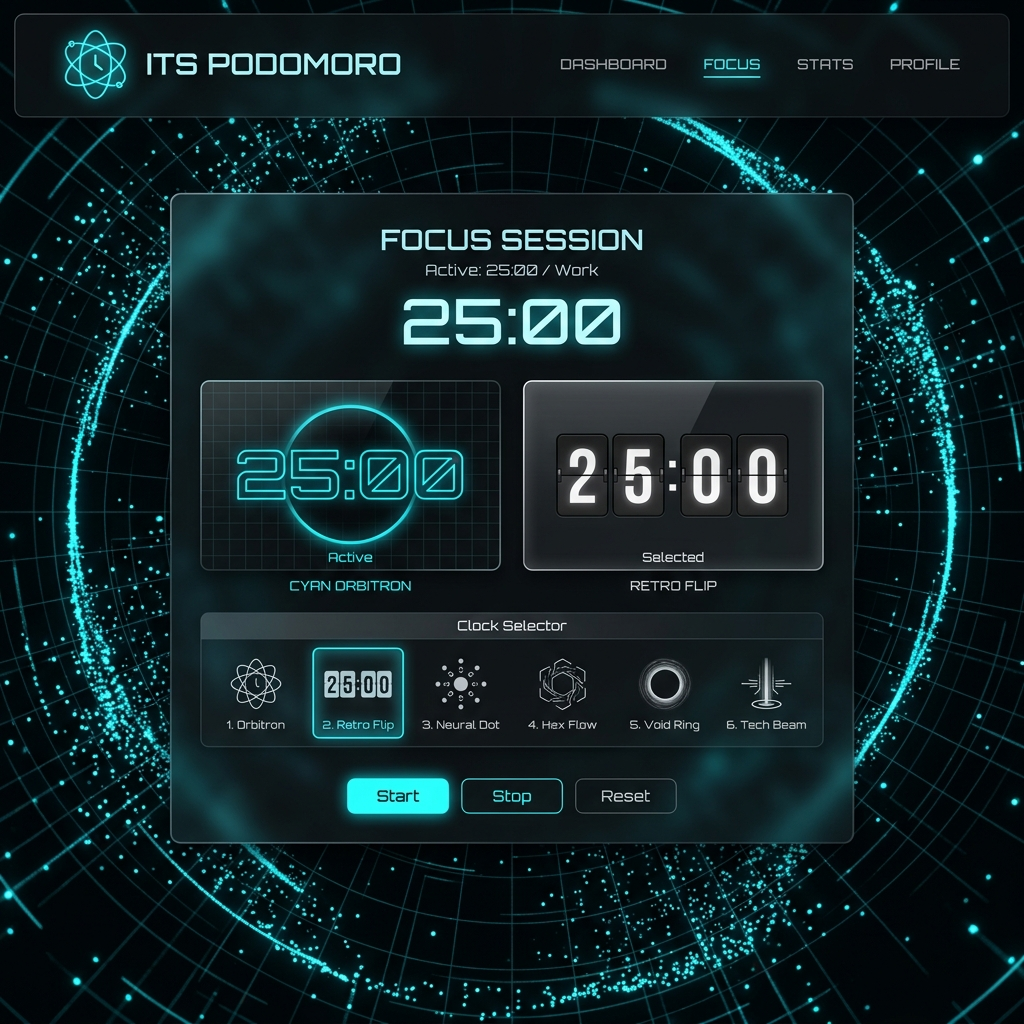
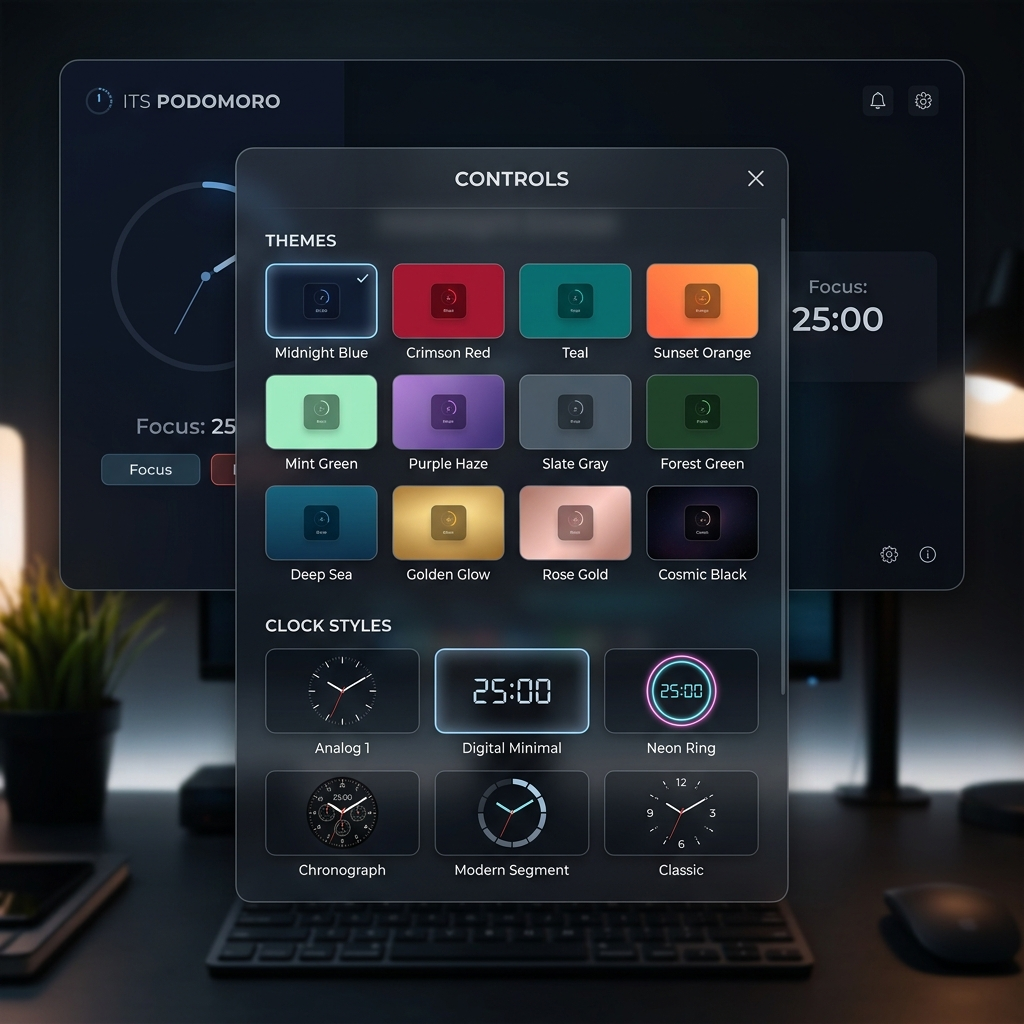
fix: compact no-scroll modal drawer for controls setting window

diff --git a/style.css b/style.css
@@ -1,5 +1,5 @@
 /* ==========================================================================
-   Its Podomoro - Ultra Clean CSS Design System (12 Themes & 6 Clock Styles)
+   Its Podomoro - Ultra Clean CSS Design System (No Scroll Master Modal)
    ========================================================================== */
 
 :root {
@@ -8,16 +8,15 @@
   --accent-glow: rgba(0, 242, 254, 0.4);
   --text-main: #ffffff;
   --text-muted: rgba(255, 255, 255, 0.65);
-  --glass-bg: rgba(12, 18, 34, 0.55);
+  --glass-bg: rgba(12, 18, 34, 0.6);
   --glass-border: rgba(255, 255, 255, 0.12);
   --glass-shadow: 0 25px 60px rgba(0, 0, 0, 0.6);
   --glass-blur: 20px;
-  --card-radius: 28px;
-  --transition-speed: 0.4s;
+  --card-radius: 24px;
+  --transition-speed: 0.35s;
   
   --font-heading: 'Outfit', sans-serif;
   --font-mono: 'JetBrains Mono', monospace;
-  --font-clock: 'JetBrains Mono', monospace;
 }
 
 /* 12 Theme Color Presets */
@@ -34,9 +33,7 @@ body.theme-vortex { --accent-color: #00f2fe; --accent-secondary: #a855f7; --acce
 body.theme-plasma { --accent-color: #ff007f; --accent-secondary: #00f2fe; --accent-glow: rgba(255, 0, 127, 0.5); }
 body.theme-sunbeams { --accent-color: #fbbf24; --accent-secondary: #f59e0b; --accent-glow: rgba(251, 191, 36, 0.5); }
 
-/* --- 6 DISTINCT CLOCK DISPLAY STYLES --- */
-
-/* Clock 1: Cyber Ring (Default) */
+/* --- 6 CLOCK STYLES --- */
 body.clock-style-neon .timer-time {
   font-family: var(--font-mono);
   font-size: 4.8rem;
@@ -45,7 +42,6 @@ body.clock-style-neon .timer-time {
   text-shadow: 0 0 35px var(--accent-glow);
 }
 
-/* Clock 2: Sci-Fi Orbitron */
 body.clock-style-digital .timer-time {
   font-family: 'Orbitron', sans-serif;
   font-size: 4.4rem;
@@ -55,47 +51,27 @@ body.clock-style-digital .timer-time {
   text-shadow: 0 0 20px var(--accent-color);
 }
 
-/* Clock 3: Clean Minimal (No Ring Fill) */
-body.clock-style-minimal .progress-ring {
-  opacity: 0.15;
-}
-body.clock-style-minimal .timer-time {
-  font-family: var(--font-heading);
-  font-size: 5.5rem;
-  font-weight: 300;
-  letter-spacing: -3px;
-}
+body.clock-style-minimal .progress-ring { opacity: 0.15; }
+body.clock-style-minimal .timer-time { font-family: var(--font-heading); font-size: 5.5rem; font-weight: 300; letter-spacing: -3px; }
 
-/* Clock 4: Retro Flip Box */
 body.clock-style-retro .timer-time {
   font-family: var(--font-mono);
   font-size: 4.2rem;
   font-weight: 700;
   background: rgba(0, 0, 0, 0.6);
-  padding: 12px 24px;
-  border-radius: 18px;
+  padding: 10px 22px;
+  border-radius: 16px;
   border: 1px solid rgba(255, 255, 255, 0.15);
-  box-shadow: inset 0 0 15px rgba(0, 0, 0, 0.8);
 }
 
-/* Clock 5: Thin Circle */
-body.clock-style-minimalist-circle .progress-ring__circle {
-  stroke-width: 4px;
-}
-body.clock-style-minimalist-circle .timer-time {
-  font-family: var(--font-heading);
-  font-size: 5rem;
-  font-weight: 500;
-}
+body.clock-style-minimalist-circle .progress-ring__circle { stroke-width: 4px; }
+body.clock-style-minimalist-circle .timer-time { font-family: var(--font-heading); font-size: 5rem; font-weight: 500; }
 
-/* Clock 6: Classic Elegant Roman */
 body.clock-style-classic-roman .timer-time {
   font-family: 'Cinzel', serif;
   font-size: 4.5rem;
   font-weight: 700;
   letter-spacing: 4px;
-  color: #fff;
-  text-shadow: 0 4px 15px rgba(0, 0, 0, 0.8);
 }
 
 * { box-sizing: border-box; margin: 0; padding: 0; user-select: none; }
@@ -105,86 +81,102 @@ html, body { width: 100%; height: 100%; overflow: hidden; font-family: var(--fon
 #bg-canvas { width: 100%; height: 100%; display: block; }
 .bg-overlay { position: absolute; top: 0; left: 0; width: 100%; height: 100%; background: rgba(5, 8, 17, 0.4); z-index: 2; transition: background 0.4s ease; }
 
-#app { position: relative; z-index: 10; display: flex; flex-direction: column; height: 100vh; padding: 24px 32px; justify-content: space-between; transition: opacity 0.5s ease; }
+#app { position: relative; z-index: 10; display: flex; flex-direction: column; height: 100vh; padding: 20px 28px; justify-content: space-between; transition: opacity 0.4s ease; }
 
 #app.zen-clean-mode .navbar-minimal,
-#app.zen-clean-mode #task-bar-container { opacity: 0; pointer-events: none; transform: translateY(-20px); transition: all 0.5s ease; }
+#app.zen-clean-mode #task-bar-container { opacity: 0; pointer-events: none; transform: translateY(-20px); transition: all 0.4s ease; }
 #app.zen-clean-mode .timer-card { background: transparent; border-color: transparent; box-shadow: none; backdrop-filter: none; }
 
 .glass-card { background: var(--glass-bg); backdrop-filter: blur(var(--glass-blur)); -webkit-backdrop-filter: blur(var(--glass-blur)); border: 1px solid var(--glass-border); box-shadow: var(--glass-shadow); border-radius: var(--card-radius); transition: all var(--transition-speed); }
 
 .navbar-minimal { display: flex; justify-content: space-between; align-items: center; width: 100%; }
-.logo { display: flex; align-items: center; gap: 12px; font-weight: 800; font-size: 1.4rem; letter-spacing: 1px; }
-.logo-icon { width: 40px; height: 40px; border-radius: 12px; background: linear-gradient(135deg, var(--accent-color), var(--accent-secondary)); display: flex; align-items: center; justify-content: center; color: #fff; font-size: 1.1rem; box-shadow: 0 0 20px var(--accent-glow); }
+.logo { display: flex; align-items: center; gap: 12px; font-weight: 800; font-size: 1.35rem; letter-spacing: 1px; }
+.logo-icon { width: 38px; height: 38px; border-radius: 12px; background: linear-gradient(135deg, var(--accent-color), var(--accent-secondary)); display: flex; align-items: center; justify-content: center; color: #fff; font-size: 1.1rem; box-shadow: 0 0 20px var(--accent-glow); }
 .logo-text .highlight { color: var(--accent-color); }
 .header-minimal-actions { display: flex; align-items: center; gap: 12px; }
 
-.stat-pill { display: flex; align-items: center; gap: 6px; background: rgba(255, 255, 255, 0.08); border: 1px solid rgba(255, 255, 255, 0.12); padding: 8px 16px; border-radius: 50px; font-size: 0.9rem; font-weight: 600; }
+.stat-pill { display: flex; align-items: center; gap: 6px; background: rgba(255, 255, 255, 0.08); border: 1px solid rgba(255, 255, 255, 0.12); padding: 7px 15px; border-radius: 50px; font-size: 0.88rem; font-weight: 600; }
 .streak-flame { color: #ff5722; }
 
-.icon-btn { height: 42px; width: 42px; border-radius: 50%; border: 1px solid rgba(255, 255, 255, 0.15); background: rgba(255, 255, 255, 0.08); color: var(--text-main); cursor: pointer; display: flex; align-items: center; justify-content: center; font-size: 1rem; transition: all 0.3s ease; }
+.icon-btn { height: 40px; width: 40px; border-radius: 50%; border: 1px solid rgba(255, 255, 255, 0.15); background: rgba(255, 255, 255, 0.08); color: var(--text-main); cursor: pointer; display: flex; align-items: center; justify-content: center; font-size: 0.95rem; transition: all 0.3s ease; }
 .icon-btn:hover { background: rgba(255, 255, 255, 0.2); border-color: var(--accent-color); transform: translateY(-2px); box-shadow: 0 0 20px var(--accent-glow); }
 
 .main-content-centered { display: flex; align-items: center; justify-content: center; flex: 1; }
-.timer-card { display: flex; flex-direction: column; align-items: center; padding: 36px 50px; width: 480px; max-width: 90vw; position: relative; }
+.timer-card { display: flex; flex-direction: column; align-items: center; padding: 32px 46px; width: 460px; max-width: 90vw; position: relative; }
 
-.mode-tabs { display: flex; background: rgba(0, 0, 0, 0.3); padding: 6px; border-radius: 50px; border: 1px solid rgba(255, 255, 255, 0.1); gap: 6px; }
-.mode-btn { background: transparent; border: none; color: var(--text-muted); padding: 8px 20px; border-radius: 50px; font-weight: 600; font-size: 0.9rem; cursor: pointer; transition: all 0.3s ease; }
+.mode-tabs { display: flex; background: rgba(0, 0, 0, 0.3); padding: 5px; border-radius: 50px; border: 1px solid rgba(255, 255, 255, 0.1); gap: 5px; }
+.mode-btn { background: transparent; border: none; color: var(--text-muted); padding: 7px 18px; border-radius: 50px; font-weight: 600; font-size: 0.88rem; cursor: pointer; transition: all 0.3s ease; }
 .mode-btn.active { background: linear-gradient(135deg, var(--accent-color), var(--accent-secondary)); color: #fff; box-shadow: 0 4px 20px var(--accent-glow); }
 
-.clock-container { position: relative; width: 310px; height: 310px; display: flex; align-items: center; justify-content: center; margin: 20px 0; }
-.progress-ring { transform: rotate(-90deg); }
+.clock-container { position: relative; width: 290px; height: 290px; display: flex; align-items: center; justify-content: center; margin: 16px 0; }
+.progress-ring { transform: rotate(-90deg); width: 290px; height: 290px; }
 .progress-ring__circle { transition: stroke-dashoffset 0.5s ease-in-out; stroke-dasharray: 942.47; stroke-dashoffset: 0; filter: drop-shadow(0 0 16px var(--accent-glow)); }
-.timer-inner { position: absolute; display: flex; flex-direction: column; align-items: center; text-align: center; gap: 8px; }
+.timer-inner { position: absolute; display: flex; flex-direction: column; align-items: center; text-align: center; gap: 6px; }
 
 .session-round-dots { display: flex; gap: 8px; }
-.session-round-dots .dot { width: 8px; height: 8px; border-radius: 50%; background: rgba(255, 255, 255, 0.2); transition: all 0.3s ease; }
+.session-round-dots .dot { width: 7px; height: 7px; border-radius: 50%; background: rgba(255, 255, 255, 0.2); transition: all 0.3s ease; }
 .session-round-dots .dot.active { background: var(--accent-color); box-shadow: 0 0 10px var(--accent-color); transform: scale(1.3); }
 
-.timer-controls { display: flex; align-items: center; gap: 18px; }
+.timer-controls { display: flex; align-items: center; gap: 16px; }
 .btn-control { border: none; cursor: pointer; display: flex; align-items: center; justify-content: center; transition: all 0.3s ease; }
-.btn-main { width: 150px; height: 50px; border-radius: 50px; background: linear-gradient(135deg, var(--accent-color), var(--accent-secondary)); color: #fff; font-weight: 700; font-size: 1rem; letter-spacing: 1px; gap: 8px; box-shadow: 0 8px 30px var(--accent-glow); }
-.btn-main:hover { transform: translateY(-3px) scale(1.03); box-shadow: 0 12px 40px var(--accent-glow); }
-.btn-secondary { width: 44px; height: 44px; border-radius: 50%; background: rgba(255, 255, 255, 0.08); border: 1px solid rgba(255, 255, 255, 0.15); color: var(--text-main); font-size: 1rem; }
+.btn-main { width: 140px; height: 46px; border-radius: 50px; background: linear-gradient(135deg, var(--accent-color), var(--accent-secondary)); color: #fff; font-weight: 700; font-size: 0.95rem; letter-spacing: 1px; gap: 8px; box-shadow: 0 8px 30px var(--accent-glow); }
+.btn-main:hover { transform: translateY(-2px) scale(1.02); box-shadow: 0 12px 40px var(--accent-glow); }
+.btn-secondary { width: 42px; height: 42px; border-radius: 50%; background: rgba(255, 255, 255, 0.08); border: 1px solid rgba(255, 255, 255, 0.15); color: var(--text-main); font-size: 0.95rem; }
 .btn-secondary:hover { background: rgba(255, 255, 255, 0.2); transform: translateY(-2px); }
 
-/* Floating Bottom Task Bar */
-.task-bar-floating { width: 480px; max-width: 90vw; margin: 0 auto; padding: 12px 18px; transition: all 0.4s ease; }
+/* Floating Task Bar */
+.task-bar-floating { width: 460px; max-width: 90vw; margin: 0 auto; padding: 10px 16px; transition: all 0.35s ease; }
 .task-bar-header { display: flex; justify-content: space-between; align-items: center; cursor: pointer; }
-.task-bar-title { display: flex; align-items: center; gap: 8px; font-size: 0.9rem; font-weight: 600; }
+.task-bar-title { display: flex; align-items: center; gap: 8px; font-size: 0.88rem; font-weight: 600; }
 .task-bar-title i { color: var(--accent-color); }
-.btn-toggle-task-panel { background: transparent; border: none; color: var(--text-muted); font-size: 0.9rem; cursor: pointer; }
+.btn-toggle-task-panel { background: transparent; border: none; color: var(--text-muted); font-size: 0.85rem; cursor: pointer; }
 
-.task-panel-content { margin-top: 12px; display: flex; flex-direction: column; gap: 10px; max-height: 200px; overflow-y: auto; }
+.task-panel-content { margin-top: 10px; display: flex; flex-direction: column; gap: 8px; max-height: 180px; overflow-y: auto; }
 .task-panel-content.hidden { display: none; }
-.task-form .input-group { display: flex; background: rgba(0, 0, 0, 0.3); border: 1px solid rgba(255, 255, 255, 0.12); border-radius: 12px; padding: 4px 6px 4px 12px; align-items: center; gap: 8px; }
-.task-form input[type="text"] { flex: 1; background: transparent; border: none; outline: none; color: #fff; font-size: 0.85rem; }
-.btn-add-task { width: 30px; height: 30px; border-radius: 8px; border: none; background: var(--accent-color); color: #000; font-weight: 700; cursor: pointer; }
-.task-list { list-style: none; display: flex; flex-direction: column; gap: 6px; }
-.task-item { display: flex; align-items: center; justify-content: space-between; background: rgba(255, 255, 255, 0.04); border: 1px solid rgba(255, 255, 255, 0.08); padding: 8px 10px; border-radius: 10px; font-size: 0.85rem; }
-.checkbox-custom { width: 16px; height: 16px; border-radius: 4px; border: 2px solid rgba(255, 255, 255, 0.3); display: flex; align-items: center; justify-content: center; cursor: pointer; }
+.task-form .input-group { display: flex; background: rgba(0, 0, 0, 0.3); border: 1px solid rgba(255, 255, 255, 0.12); border-radius: 10px; padding: 3px 5px 3px 10px; align-items: center; gap: 8px; }
+.task-form input[type="text"] { flex: 1; background: transparent; border: none; outline: none; color: #fff; font-size: 0.82rem; }
+.btn-add-task { width: 28px; height: 28px; border-radius: 7px; border: none; background: var(--accent-color); color: #000; font-weight: 700; cursor: pointer; }
+.task-list { list-style: none; display: flex; flex-direction: column; gap: 5px; }
+.task-item { display: flex; align-items: center; justify-content: space-between; background: rgba(255, 255, 255, 0.04); border: 1px solid rgba(255, 255, 255, 0.08); padding: 7px 9px; border-radius: 8px; font-size: 0.82rem; }
+.checkbox-custom { width: 15px; height: 15px; border-radius: 4px; border: 2px solid rgba(255, 255, 255, 0.3); display: flex; align-items: center; justify-content: center; cursor: pointer; }
 .task-item.completed .checkbox-custom { background: var(--accent-color); border-color: var(--accent-color); color: #000; }
 .task-item.completed .task-title-text { text-decoration: line-through; color: var(--text-muted); }
 
-/* Master Modal */
-.modal-overlay { position: fixed; top: 0; left: 0; width: 100vw; height: 100vh; background: rgba(0, 0, 0, 0.75); backdrop-filter: blur(10px); z-index: 100; display: flex; align-items: center; justify-content: center; opacity: 0; pointer-events: none; transition: opacity 0.3s ease; }
+/* --- NO SCROLL MASTER MODAL DRAWER --- */
+.modal-overlay { position: fixed; top: 0; left: 0; width: 100vw; height: 100vh; background: rgba(0, 0, 0, 0.75); backdrop-filter: blur(12px); z-index: 100; display: flex; align-items: center; justify-content: center; opacity: 0; pointer-events: none; transition: opacity 0.3s ease; }
 .modal-overlay.active { opacity: 1; pointer-events: auto; }
-.master-drawer { width: 90%; max-width: 650px; max-height: 85vh; padding: 24px; }
-.modal-header { display: flex; justify-content: space-between; align-items: center; margin-bottom: 16px; }
-.modal-header h2 { font-size: 1.2rem; display: flex; align-items: center; gap: 8px; }
-.btn-close-modal { background: transparent; border: none; color: var(--text-muted); font-size: 1.3rem; cursor: pointer; }
 
-.master-tabs { display: flex; gap: 6px; margin-bottom: 16px; background: rgba(0, 0, 0, 0.25); padding: 4px; border-radius: 14px; }
-.master-tab { flex: 1; background: transparent; border: none; color: var(--text-muted); padding: 8px 12px; border-radius: 10px; font-weight: 600; font-size: 0.82rem; cursor: pointer; display: flex; align-items: center; justify-content: center; gap: 6px; }
-.master-tab.active { background: rgba(255, 255, 255, 0.15); color: #fff; border: 1px solid var(--accent-color); }
+/* Perfect Compact Fit (No Scrollbar Required) */
+.master-drawer {
+  width: 90%;
+  max-width: 680px;
+  padding: 22px 26px;
+  overflow: hidden; /* NO SCROLL BAR! */
+  display: flex;
+  flex-direction: column;
+}
+
+.modal-header { display: flex; justify-content: space-between; align-items: center; margin-bottom: 14px; }
+.modal-header h2 { font-size: 1.15rem; display: flex; align-items: center; gap: 8px; }
+.btn-close-modal { background: transparent; border: none; color: var(--text-muted); font-size: 1.25rem; cursor: pointer; }
+
+.master-tabs { display: flex; gap: 6px; margin-bottom: 14px; background: rgba(0, 0, 0, 0.3); padding: 4px; border-radius: 12px; }
+.master-tab { flex: 1; background: transparent; border: none; color: var(--text-muted); padding: 7px 10px; border-radius: 9px; font-weight: 600; font-size: 0.8rem; cursor: pointer; display: flex; align-items: center; justify-content: center; gap: 6px; }
+.master-tab.active { background: rgba(255, 255, 255, 0.14); color: #fff; border: 1px solid var(--accent-color); }
 .master-tab-content { display: none; }
-.master-tab-content.active { display: block; }
+.master-tab-content.active { display: flex; flex-direction: column; gap: 12px; }
 
-/* 12 Theme Grid Previews */
-.theme-grid { display: grid; grid-template-columns: repeat(3, 1fr); gap: 10px; margin-bottom: 14px; max-height: 280px; overflow-y: auto; }
-.theme-card { background: rgba(255, 255, 255, 0.04); border: 2px solid rgba(255, 255, 255, 0.1); border-radius: 14px; overflow: hidden; cursor: pointer; transition: all 0.3s ease; }
-.theme-card.active { border-color: var(--accent-color); box-shadow: 0 0 15px var(--accent-glow); }
-.theme-preview { height: 50px; width: 100%; }
+/* Compact 12 Themes Grid (Fits Perfectly without Scroll) */
+.theme-grid {
+  display: grid;
+  grid-template-columns: repeat(4, 1fr); /* 4 columns x 3 rows = 12 themes */
+  gap: 8px;
+  overflow: hidden; /* No scrollbar */
+}
+
+.theme-card { background: rgba(255, 255, 255, 0.04); border: 2px solid rgba(255, 255, 255, 0.1); border-radius: 10px; overflow: hidden; cursor: pointer; transition: all 0.25s ease; }
+.theme-card.active { border-color: var(--accent-color); box-shadow: 0 0 12px var(--accent-glow); }
+.theme-preview { height: 36px; width: 100%; }
 
 .theme-cyberpunk-preview { background: linear-gradient(135deg, #050b14, #1f0036, #00f2fe); }
 .theme-galaxy-preview { background: linear-gradient(135deg, #090314, #3b0764, #ec4899); }
@@ -199,30 +191,30 @@ html, body { width: 100%; height: 100%; overflow: hidden; font-family: var(--fon
 .theme-plasma-preview { background: linear-gradient(135deg, #0a0014, #ff007f, #00f2fe); }
 .theme-sunbeams-preview { background: linear-gradient(135deg, #1c1305, #78350f, #fbbf24); }
 
-.theme-info { padding: 6px; text-align: center; }
-.theme-info h4 { font-size: 0.78rem; }
+.theme-info { padding: 4px; text-align: center; }
+.theme-info h4 { font-size: 0.72rem; white-space: nowrap; overflow: hidden; text-overflow: ellipsis; }
 
-.theme-settings-panel { display: flex; gap: 12px; background: rgba(0, 0, 0, 0.2); padding: 10px; border-radius: 10px; }
-.setting-item { flex: 1; display: flex; flex-direction: column; gap: 4px; font-size: 0.75rem; }
+.theme-settings-panel { display: flex; gap: 10px; background: rgba(0, 0, 0, 0.25); padding: 8px 12px; border-radius: 8px; }
+.setting-item { flex: 1; display: flex; flex-direction: column; gap: 3px; font-size: 0.72rem; }
+.setting-item input[type="range"] { accent-color: var(--accent-color); }
 
-/* 6 Clock Style Cards Grid */
-.clock-styles-grid { display: grid; grid-template-columns: repeat(3, 1fr); gap: 12px; margin-bottom: 14px; }
-.clock-style-card { background: rgba(255, 255, 255, 0.04); border: 2px solid rgba(255, 255, 255, 0.1); border-radius: 14px; padding: 12px; text-align: center; cursor: pointer; transition: all 0.3s ease; }
-.clock-style-card.active { border-color: var(--accent-color); box-shadow: 0 0 15px var(--accent-glow); }
+/* Compact 6 Clock Styles Grid (Fits Perfectly without Scroll) */
+.clock-styles-grid { display: grid; grid-template-columns: repeat(3, 1fr); gap: 10px; margin-bottom: 6px; }
+.clock-style-card { background: rgba(255, 255, 255, 0.04); border: 2px solid rgba(255, 255, 255, 0.1); border-radius: 12px; padding: 10px; text-align: center; cursor: pointer; transition: all 0.25s ease; }
+.clock-style-card.active { border-color: var(--accent-color); box-shadow: 0 0 12px var(--accent-glow); }
 
-.clock-style-preview { font-size: 1.4rem; font-weight: 700; margin-bottom: 6px; }
+.clock-style-preview { font-size: 1.25rem; font-weight: 700; margin-bottom: 4px; }
 .clock-style-neon-preview { font-family: 'JetBrains Mono', monospace; color: var(--accent-color); }
 .clock-style-digital-preview { font-family: 'Orbitron', sans-serif; color: var(--accent-color); }
 .clock-style-minimal-preview { font-family: 'Outfit', sans-serif; font-weight: 300; }
-.clock-style-retro-preview { font-family: 'JetBrains Mono', monospace; background: rgba(0,0,0,0.5); padding: 4px; border-radius: 6px; }
+.clock-style-retro-preview { font-family: 'JetBrains Mono', monospace; background: rgba(0,0,0,0.5); padding: 2px 6px; border-radius: 4px; }
 .clock-style-circle-preview { font-family: 'Outfit', sans-serif; font-weight: 500; }
 .clock-style-roman-preview { font-family: 'Cinzel', serif; }
+.clock-style-card h4 { font-size: 0.75rem; color: var(--text-muted); }
 
-.clock-style-card h4 { font-size: 0.8rem; color: var(--text-muted); }
-
-.duration-inputs { display: grid; grid-template-columns: repeat(3, 1fr); gap: 8px; margin-bottom: 12px; }
+.duration-inputs { display: grid; grid-template-columns: repeat(3, 1fr); gap: 10px; margin-bottom: 8px; }
 .input-field { display: flex; flex-direction: column; gap: 4px; }
 .input-field label { font-size: 0.72rem; color: var(--text-muted); }
-.input-field input { background: rgba(0, 0, 0, 0.3); border: 1px solid rgba(255, 255, 255, 0.12); padding: 8px; border-radius: 8px; color: #fff; font-family: var(--font-heading); }
+.input-field input { background: rgba(0, 0, 0, 0.3); border: 1px solid rgba(255, 255, 255, 0.12); padding: 8px; border-radius: 8px; color: #fff; font-family: var(--font-heading); font-size: 0.9rem; }
 
-.btn-primary-action { width: 100%; padding: 10px; border-radius: 10px; border: none; background: linear-gradient(135deg, var(--accent-color), var(--accent-secondary)); color: #fff; font-weight: 700; font-size: 0.88rem; cursor: pointer; }
+.btn-primary-action { width: 100%; padding: 10px; border-radius: 8px; border: none; background: linear-gradient(135deg, var(--accent-color), var(--accent-secondary)); color: #fff; font-weight: 700; font-size: 0.88rem; cursor: pointer; }
